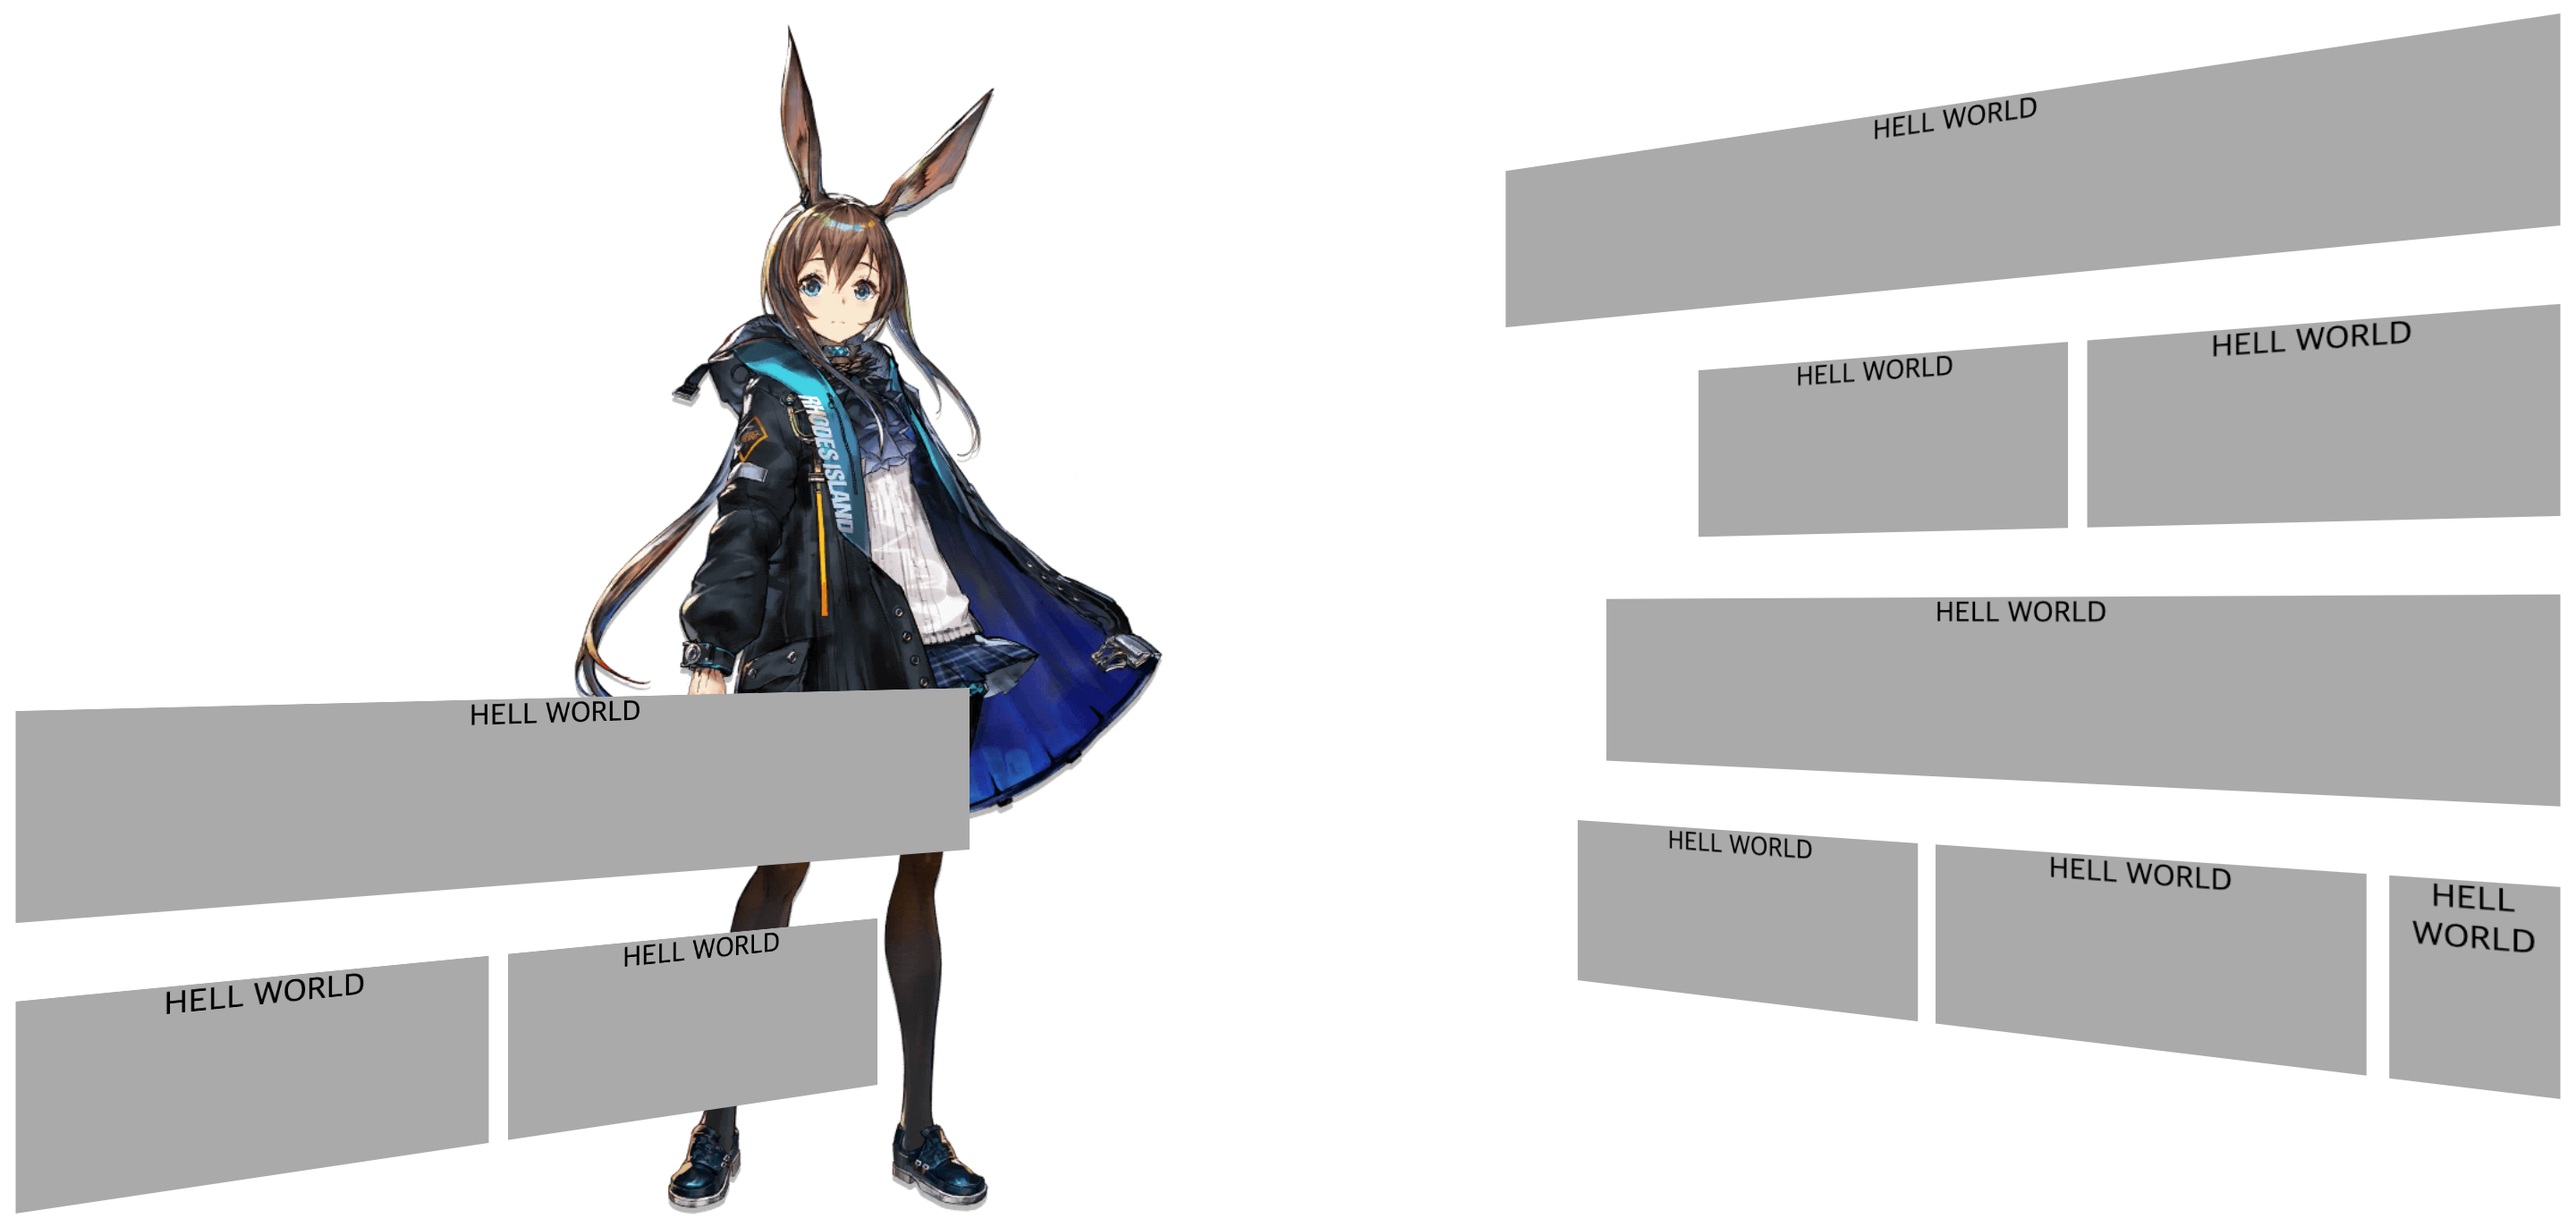
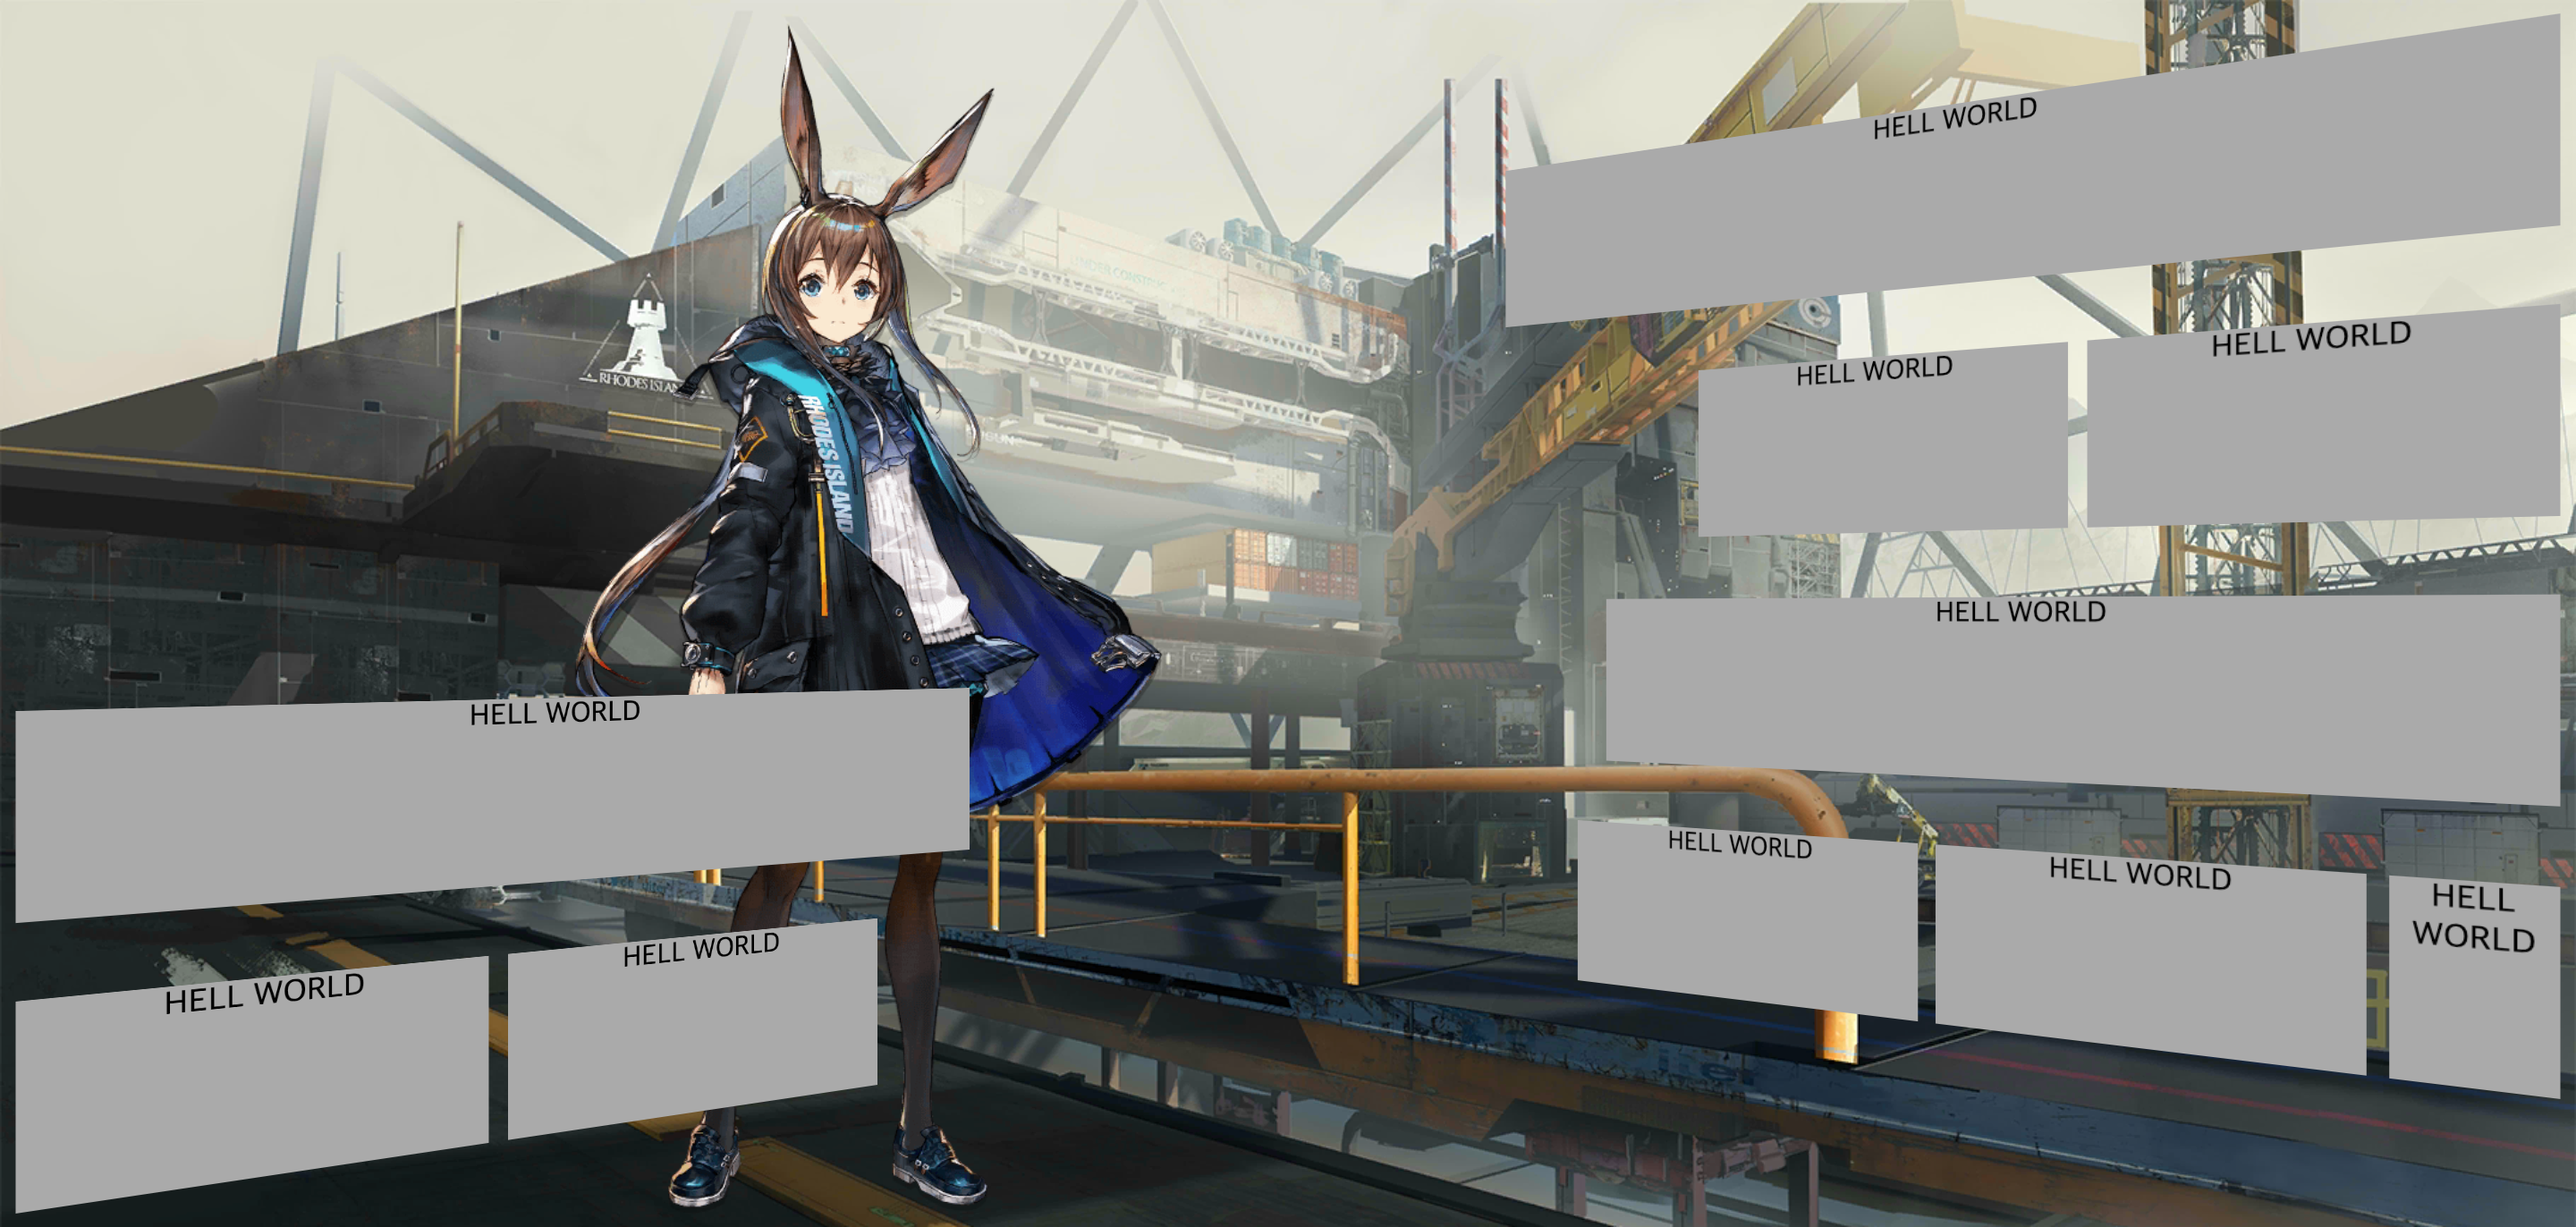
배경 추가

diff --git a/Demo/index.html b/Demo/index.html
@@ -4,7 +4,7 @@
     <link rel="stylesheet" type='text/css' href="style.css"/>
 </head>
 
-<body>
+<body style="background-image: url(UI_HOME_FRONT_BKG.png);background-repeat: no-repeat; background-size: cover;">
     <div class="full-screen row" style="
     background-size: auto 100%;
     background-image: url(char_002_amiya_1.png);
